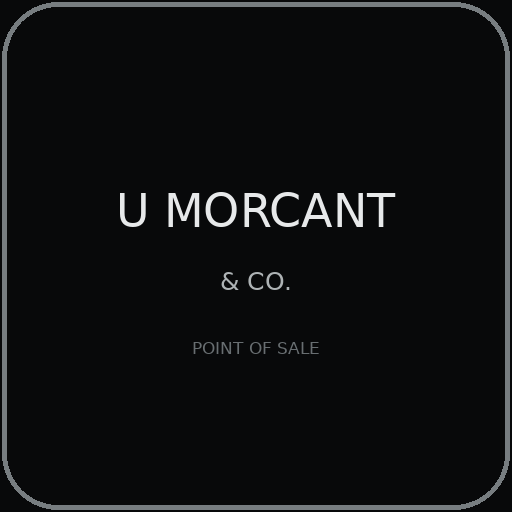
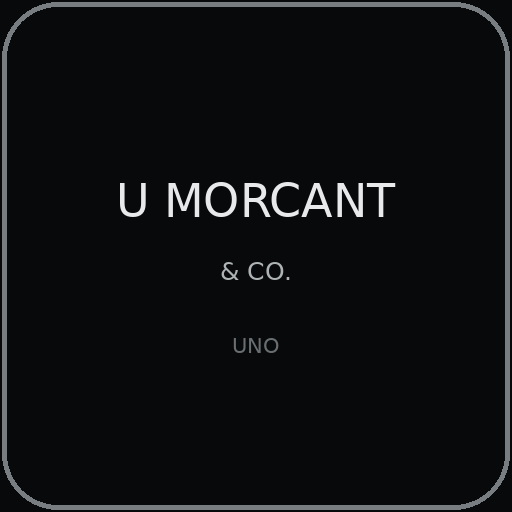
Publicar Morcant Uno
Nombre nuevo, interfaz esencial, modo claro y oscuro, eliminación individual y limpieza completa del historial.

diff --git a/app.js b/app.js
@@ -40,7 +40,7 @@ function renderProducts(){const q=$('#productSearch').value.trim().toLowerCase()
 function renderCart(){const entries=Object.entries(cart).filter(([,q])=>q>0),units=entries.reduce((s,[,q])=>s+q,0);$('#cartItems').innerHTML=entries.length?entries.map(([id,q])=>{const p=state.products.find(x=>x.id===id);return`<div class="cart-line"><img src="${p.image}" alt=""><div><b>${esc(p.name)}</b><small>${money(p.price*q)}</small></div><div class="quantity"><button data-qty="${id}" data-delta="-1">−</button><span>${q}</span><button data-qty="${id}" data-delta="1">+</button></div></div>`}).join(''):'<div class="empty-state">Selecciona un producto para comenzar.</div>';$('#cartUnits').textContent=units;$('#cartTotal').textContent=money(total());updateChange()}
 function updateChange(){const amount=total(),cash=Number($('#cashReceived').value)||0,valid=amount>0&&cash>=amount;$('#changeAmount').textContent=money(valid?cash-amount:0);$('#changeRow').classList.toggle('invalid',amount>0&&cash>0&&!valid);$('#completeSale').disabled=!valid}
 function renderInventory(){const q=$('#inventorySearch').value.trim().toLowerCase(),list=state.products.filter(p=>(p.name+' '+p.sku+' '+p.category).toLowerCase().includes(q));$('#stockSummary').textContent=`${state.products.length} productos · ${state.products.reduce((s,p)=>s+p.stock,0)} unidades`;$('#inventoryList').innerHTML=list.length?list.map(p=>`<article class="inventory-row"><img src="${p.image}" alt="${esc(p.name)}"><div><h3>${esc(p.name)}</h3><p>${esc(p.category)}</p></div><span class="sku">${esc(p.sku)}</span><strong class="price">${money(p.price)}</strong><strong class="${p.stock<=p.lowStock?'low':''}">${p.stock} unidades</strong><div class="row-actions"><button data-stock="${p.id}" data-delta="1">+1</button><button data-stock="${p.id}" data-delta="-1">−1</button><button data-edit="${p.id}">Editar</button><button data-delete="${p.id}" class="danger">Eliminar</button></div></article>`).join(''):'<div class="empty-state">No hay coincidencias.</div>'}
-function renderHistory(){const list=$('#historyList');list.innerHTML=state.sales.length?state.sales.map(s=>`<article class="history-card ${s.status==='cancelled'?'cancelled':''}"><div><h3>Venta ${esc(s.folio)}</h3><time>${new Date(s.date).toLocaleString('es-MX',{dateStyle:'medium',timeStyle:'short'})}</time></div><p>${s.status==='cancelled'?'<span class="status-pill">ANULADA</span>':`${s.items.reduce((a,i)=>a+i.qty,0)} artículos`}</p><strong>${money(s.total)}</strong><span class="history-payment">Pagó ${money(s.cash)}</span><span class="history-change">Cambio ${money(s.change)}</span><div class="history-actions"><button class="secondary-button" data-receipt="${s.id}">Ticket</button>${s.status==='cancelled'?`<button class="text-button danger" data-remove-sale="${s.id}">Eliminar</button>`:`<button class="text-button danger" data-cancel-sale="${s.id}">Anular</button>`}</div></article>`).join(''):'<div class="empty-state">Todavía no hay ventas registradas.</div>'}
+function renderHistory(){const list=$('#historyList');list.innerHTML=state.sales.length?state.sales.map(s=>`<article class="history-card ${s.status==='cancelled'?'cancelled':''}"><div><h3>Venta ${esc(s.folio)}</h3><time>${new Date(s.date).toLocaleString('es-MX',{dateStyle:'medium',timeStyle:'short'})}</time></div><p>${s.status==='cancelled'?'<span class="status-pill">ANULADA</span>':`${s.items.reduce((a,i)=>a+i.qty,0)} artículos`}</p><strong>${money(s.total)}</strong><span class="history-payment">Pagó ${money(s.cash)}</span><span class="history-change">Cambio ${money(s.change)}</span><div class="history-actions"><button class="secondary-button" data-receipt="${s.id}">Ticket</button>${s.status!=='cancelled'?`<button class="text-button danger" data-cancel-sale="${s.id}">Anular</button>`:''}<button class="text-button danger" data-remove-sale="${s.id}">Eliminar</button></div></article>`).join(''):'<div class="empty-state">El historial está limpio.</div>'}
 function todaySales(){const key=new Date().toDateString();return state.sales.filter(s=>s.status!=='cancelled'&&new Date(s.date).toDateString()===key)}
 function renderDashboard(){const today=todaySales(),revenue=today.reduce((s,x)=>s+x.total,0),units=today.reduce((s,x)=>s+x.items.reduce((a,i)=>a+i.qty,0),0),low=state.products.filter(p=>p.stock<=p.lowStock);$('#metricGrid').innerHTML=[['VENTAS DE HOY',today.length,'Operaciones completadas'],['INGRESO DE HOY',money(revenue),'Efectivo registrado'],['UNIDADES VENDIDAS',units,'Productos de hoy'],['EXISTENCIA BAJA',low.length,'Productos por reponer']].map(x=>`<article class="surface metric"><span>${x[0]}</span><strong>${x[1]}</strong><small>${x[2]}</small></article>`).join('');const counts={};today.forEach(s=>s.items.forEach(i=>counts[i.name]=(counts[i.name]||0)+i.qty));const top=Object.entries(counts).sort((a,b)=>b[1]-a[1]).slice(0,6);$('#topProducts').innerHTML=top.length?top.map((x,i)=>`<div class="rank-row"><span>${String(i+1).padStart(2,'0')}</span><b>${esc(x[0])}</b><strong>${x[1]}</strong></div>`).join(''):'<div class="empty-state">Sin ventas hoy.</div>';$('#lowStockList').innerHTML=low.length?low.map((p,i)=>`<div class="rank-row"><span>${String(i+1).padStart(2,'0')}</span><b>${esc(p.name)}</b><strong class="low">${p.stock}</strong></div>`).join(''):'<div class="empty-state">Inventario suficiente.</div>'}
 function renderSettings(){$('#businessName').value=state.business.name;$('#receiptMessage').value=state.business.message}
@@ -60,7 +60,7 @@ document.addEventListener('click',e=>{
   const del=e.target.closest('[data-delete]');if(del&&confirm('¿Eliminar este producto?')){state.products=state.products.filter(x=>x.id!==del.dataset.delete);delete cart[del.dataset.delete];save();renderInventory();renderProducts();renderCart();return}
   const receipt=e.target.closest('[data-receipt]');if(receipt){openReceipt(state.sales.find(x=>x.id===receipt.dataset.receipt));return}
   const cancel=e.target.closest('[data-cancel-sale]');if(cancel){const sale=state.sales.find(x=>x.id===cancel.dataset.cancelSale);if(sale&&confirm(`¿Anular la venta ${sale.folio}? Las existencias regresarán al inventario.`)){sale.items.forEach(item=>{const product=state.products.find(p=>p.id===item.id);if(product)product.stock+=item.qty});sale.status='cancelled';sale.cancelledAt=new Date().toISOString();save();renderHistory();renderProducts();renderInventory();renderDashboard();notify('Venta anulada · inventario repuesto')}return}
-  const remove=e.target.closest('[data-remove-sale]');if(remove&&confirm('¿Eliminar definitivamente esta venta anulada del historial?')){state.sales=state.sales.filter(x=>x.id!==remove.dataset.removeSale);save();renderHistory();notify('Registro eliminado')}
+  const remove=e.target.closest('[data-remove-sale]');if(remove&&confirm('¿Eliminar definitivamente este registro? El inventario no cambiará.')){state.sales=state.sales.filter(x=>x.id!==remove.dataset.removeSale);save();renderHistory();renderDashboard();notify('Registro eliminado')}
 });
 $('#productSearch').addEventListener('input',renderProducts);$('#inventorySearch').addEventListener('input',renderInventory);$('#cashReceived').addEventListener('input',updateChange);$('#clearCart').addEventListener('click',()=>{cart={};$('#cashReceived').value='';renderCart()});$('#newProduct').addEventListener('click',()=>openProduct());$('#closeProductModal').addEventListener('click',closeProduct);$('#cancelProduct').addEventListener('click',closeProduct);$('#closeReceipt').addEventListener('click',closeReceipt);$('#finishReceipt').addEventListener('click',closeReceipt);$('#printReceipt').addEventListener('click',()=>window.print());$('#menuToggle').addEventListener('click',()=>$('.sidebar').classList.toggle('open'));
 function refreshGeneratedPhoto(){if(photoIsCustom)return;photoData=smartPhoto($('#productName').value,$('#productCategory').value);$('#productPreview').src=photoData}
@@ -73,6 +73,9 @@ $('#businessForm').addEventListener('submit',e=>{e.preventDefault();state.busine
 $('#exportData').addEventListener('click',()=>{const blob=new Blob([JSON.stringify(state,null,2)],{type:'application/json'}),url=URL.createObjectURL(blob),a=document.createElement('a');a.href=url;a.download=`morcant-punto-${new Date().toISOString().slice(0,10)}.json`;a.click();URL.revokeObjectURL(url)});
 $('#importData').addEventListener('change',async e=>{const file=e.target.files[0];if(!file)return;try{const next=JSON.parse(await file.text());if(!next.business||!Array.isArray(next.products)||!Array.isArray(next.sales))throw Error();state=next;save();location.reload()}catch{notify('El respaldo no es válido')}});
 $('#resetApp').addEventListener('click',()=>{if(confirm('Se borrarán ventas, productos y ajustes. ¿Continuar?')){localStorage.removeItem(STORE);location.reload()}});
+$('#clearHistory').addEventListener('click',()=>{if(!state.sales.length){notify('El historial ya está limpio');return}if(confirm(`¿Eliminar las ${state.sales.length} ventas del historial? El inventario actual no cambiará.`)){state.sales=[];save();renderHistory();renderDashboard();notify('Historial limpiado')}});
+function applyTheme(theme){document.documentElement.dataset.theme=theme;localStorage.setItem('morcant_theme',theme);const light=theme==='light';$('#themeToggle').textContent=light?'◐':'☼';$('#themeToggle').setAttribute('aria-label',light?'Activar modo oscuro':'Activar modo claro');document.querySelector('meta[name="theme-color"]').content=light?'#f4f1eb':'#08090a'}
+$('#themeToggle').addEventListener('click',()=>applyTheme(document.documentElement.dataset.theme==='light'?'dark':'light'));applyTheme(document.documentElement.dataset.theme||'dark');
 window.addEventListener('beforeinstallprompt',e=>{e.preventDefault();deferredInstall=e;$('#installApp').hidden=false});$('#installApp').addEventListener('click',async()=>{if(!deferredInstall)return;deferredInstall.prompt();await deferredInstall.userChoice;deferredInstall=null;$('#installApp').hidden=true});
 function tick(){const d=new Date();$('#dateText').textContent=d.toLocaleDateString('es-MX',{weekday:'long',day:'numeric',month:'long'});$('#timeText').textContent=d.toLocaleTimeString('es-MX',{hour:'2-digit',minute:'2-digit'})}tick();setInterval(tick,30000);$('#businessNameHeader').textContent=state.business.name;renderProducts();renderCart();renderInventory();renderHistory();renderDashboard();if('serviceWorker'in navigator)navigator.serviceWorker.register('sw.js').catch(()=>{});
 })();

diff --git a/styles.css b/styles.css
@@ -44,3 +44,31 @@ h1,h2,.wordmark strong,.receipt-brand strong{font-family:Baskerville,"Iowan Old 
 }
 
 @media(max-width:430px){.workspace{padding-left:9px;padding-right:9px}.topbar h1{font-size:21px}.product-grid{grid-template-columns:repeat(2,minmax(0,1fr))}.product-card{padding:6px}.product-card b{font-size:11px}.product-card div{font-size:9px}.metric-grid{grid-template-columns:1fr}.form-grid{grid-template-columns:1fr}.section-head:has(.primary-button.small){display:grid;grid-template-columns:1fr}.section-head:has(.primary-button.small) .primary-button{margin-top:12px;width:100%}}
+
+/* Morcant Uno — interfaz esencial */
+.section-index,.topbar>div>p,.nav-item>span{display:none}
+.topbar{height:76px}.topbar h1{font-size:24px}.wordmark{padding-bottom:38px}.wordmark small{margin-top:8px;letter-spacing:.45em}
+.nav-item{padding:11px 13px;gap:0}.surface{border-color:rgba(128,128,128,.16)}
+.section-head p{max-width:520px}.theme-toggle{flex:0 0 auto;font-size:16px}
+.history-actions{min-width:max-content}.history-actions .text-button{font-weight:500}
+
+html[data-theme="light"]{color-scheme:light;--black:#f4f1eb;--panel:#fbfaf7;--panel2:#efede7;--line:#dedbd3;--line2:#cecac0;--text:#1b1b19;--muted:#706e68;--silver:#323230;--silver2:#85827a;--success:#237a59;--danger:#a63f3a;--warning:#9a6a19}
+html[data-theme="light"] body{background:#f4f1eb;color:var(--text)}
+html[data-theme="light"] .sidebar{background:#efede7;border-color:#ddd9d0}
+html[data-theme="light"] .wordmark strong{background:none;color:#1c1c1a}
+html[data-theme="light"] .wordmark span,html[data-theme="light"] .wordmark small{color:#74716b}
+html[data-theme="light"] .nav-item{color:#6d6a64}html[data-theme="light"] .nav-item:hover{background:#e5e2da;color:#1b1b19}html[data-theme="light"] .nav-item.active{background:#dedbd3;color:#111;box-shadow:none}
+html[data-theme="light"] .sidebar-foot{border-color:#d8d4cb}html[data-theme="light"] .install-button{background:#e3e0d8;color:#1b1b19;border-color:#cbc7be}
+html[data-theme="light"] .topbar{border-color:#dedbd3}html[data-theme="light"] .business-name{color:#484641;border-color:#d4d0c7}
+html[data-theme="light"] .surface{background:#fbfaf7;border-color:#dedbd3}
+html[data-theme="light"] .search,html[data-theme="light"] .cart-line,html[data-theme="light"] .product-card,html[data-theme="light"] .cash-input{background:#fff;border-color:#dfdcd4;color:#1b1b19}
+html[data-theme="light"] input{color:#1b1b19!important}html[data-theme="light"] .product-card:hover{background:#f8f6f1;border-color:#bbb7ae}
+html[data-theme="light"] .filter{background:transparent;border-color:#d4d0c7;color:#6b6862}html[data-theme="light"] .filter.active{background:#242422;color:#fff;border-color:#242422}
+html[data-theme="light"] .quantity button,html[data-theme="light"] .row-actions button,html[data-theme="light"] .icon-button,html[data-theme="light"] .secondary-button{background:#f0ede7;color:#262522;border-color:#d2cec5}
+html[data-theme="light"] .grand-total,html[data-theme="light"] .checkout-summary .grand-total{color:#1b1b19}
+html[data-theme="light"] .change-row{background:#e7f0ea}html[data-theme="light"] .change-row.invalid{background:#f5e5e3}
+html[data-theme="light"] .settings-form input,html[data-theme="light"] .form-grid input{background:#fff;color:#1b1b19;border-color:#d5d1c8}
+html[data-theme="light"] .modal{background:rgba(36,34,30,.42)}html[data-theme="light"] .dialog{background:#fbfaf7;border-color:#d1cdc4;box-shadow:0 30px 80px rgba(40,35,25,.18)}
+html[data-theme="light"] .toast{background:#222;color:#fff}
+
+@media(max-width:760px){.topbar{height:64px}.nav-item{padding:7px 2px;font-size:10px}.top-actions{gap:8px}.theme-toggle{display:block!important}.section-head{gap:10px}#clearHistory{padding:9px 10px;font-size:9px}html[data-theme="light"] .sidebar{background:rgba(244,241,235,.96);border-color:#d8d4cb}html[data-theme="light"] .topbar{background:rgba(244,241,235,.94)}}

diff --git a/index.html b/index.html
@@ -7,13 +7,14 @@
   <meta name="description" content="Punto de venta e inventario de U Morcant & Co.">
   <link rel="manifest" href="manifest.webmanifest">
   <link rel="icon" href="icon.svg" type="image/svg+xml">
+  <script>try{document.documentElement.dataset.theme=localStorage.getItem('morcant_theme')||'dark'}catch{}</script>
   <link rel="stylesheet" href="styles.css">
-  <title>Morcant Punto</title>
+  <title>Morcant Uno</title>
 </head>
 <body>
   <div class="app-shell">
     <aside class="sidebar" aria-label="Navegación principal">
-      <div class="wordmark"><strong>U MORCANT</strong><span>&amp; CO.</span><small>POINT OF SALE</small></div>
+      <div class="wordmark"><strong>U MORCANT</strong><span>&amp; CO.</span><small>UNO</small></div>
       <nav class="nav-list">
         <button class="nav-item active" data-view="sale"><span>01</span>Venta</button>
         <button class="nav-item" data-view="inventory"><span>02</span>Inventario</button>
@@ -32,7 +33,7 @@
       <header class="topbar">
         <button id="menuToggle" class="icon-button menu-toggle" aria-label="Abrir menú">☰</button>
         <div><p id="eyebrow">Punto de venta</p><h1 id="viewTitle">Nueva venta</h1></div>
-        <div class="top-actions"><div class="business-name" id="businessNameHeader">Mi negocio</div><div class="clock"><strong id="dateText"></strong><span id="timeText"></span></div></div>
+        <div class="top-actions"><div class="business-name" id="businessNameHeader">Mi negocio</div><button id="themeToggle" class="icon-button theme-toggle" aria-label="Activar modo claro" title="Cambiar apariencia">☼</button><div class="clock"><strong id="dateText"></strong><span id="timeText"></span></div></div>
       </header>
 
       <section id="sale" class="view active">
@@ -68,7 +69,7 @@
 
       <section id="history" class="view">
         <div class="surface content-panel">
-          <div class="section-head"><div><span class="section-index">REGISTRO</span><h2>Historial de ventas</h2><p>Consulta cada cobro, sus productos y el cambio entregado.</p></div></div>
+          <div class="section-head"><div><span class="section-index">REGISTRO</span><h2>Historial de ventas</h2><p>Consulta, anula o elimina registros de ventas.</p></div><button id="clearHistory" class="secondary-button danger">Limpiar historial</button></div>
           <div id="historyList" class="history-list"></div>
         </div>
       </section>

diff --git a/sw.js b/sw.js
@@ -1,4 +1,4 @@
-const CACHE='morcant-punto-v3';
+const CACHE='morcant-uno-v5';
 const ASSETS=['./','index.html','styles.css','app.js','manifest.webmanifest','icon.svg','icon-192.png','icon-512.png'];
 self.addEventListener('install',event=>event.waitUntil(caches.open(CACHE).then(cache=>cache.addAll(ASSETS)).then(()=>self.skipWaiting())));
 self.addEventListener('activate',event=>event.waitUntil(caches.keys().then(keys=>Promise.all(keys.filter(key=>key!==CACHE).map(key=>caches.delete(key)))).then(()=>self.clients.claim())));

diff --git a/README.md b/README.md
@@ -1,4 +1,4 @@
-# Morcant Punto
+# Morcant Uno
 
 Punto de venta instalable de **U Morcant & Co.** para pequeños negocios.
 
@@ -7,6 +7,8 @@ Punto de venta instalable de **U Morcant & Co.** para pequeños negocios.
 - Registro de ventas en efectivo y cálculo automático del cambio.
 - Inventario con existencias, alertas, SKU, categorías y fotografías.
 - Historial de ventas y tickets imprimibles.
+- Anulación, eliminación individual y limpieza completa del historial.
+- Apariencia oscura o clara guardada en el dispositivo.
 - Resumen diario de ingresos, unidades y productos vendidos.
 - Respaldo e importación de datos en JSON.
 - Funcionamiento sin conexión e instalación como PWA.
